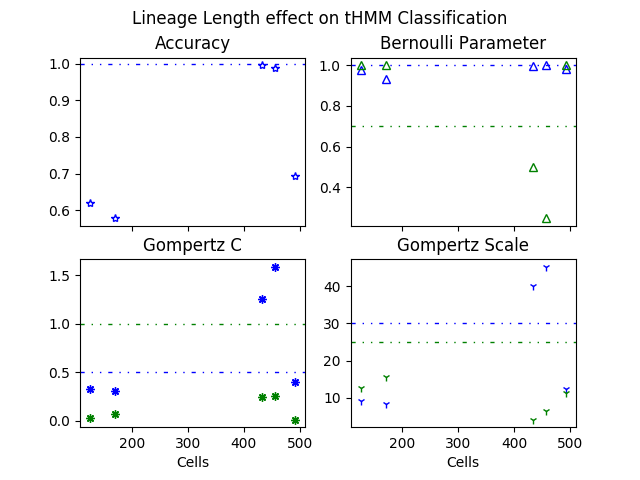
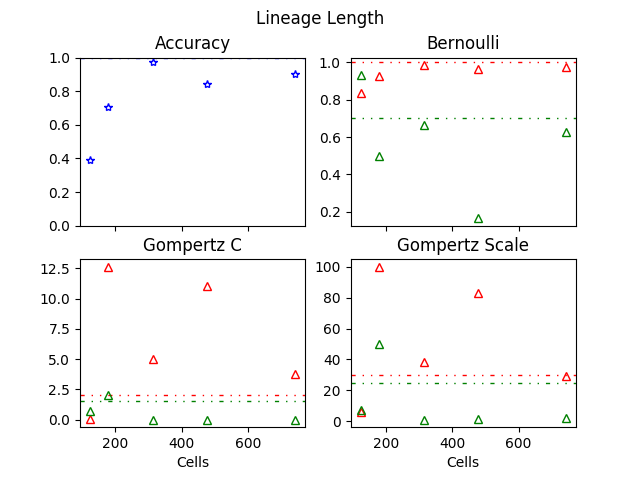
finalized figure1

diff --git a/Figure1_2Lineage.py b/Figure1_2Lineage.py
@@ -3,6 +3,7 @@ import numpy as np
 import matplotlib
 matplotlib.use('Agg')
 from matplotlib import pyplot as plt
+from matplotlib.font_manager import FontProperties
 
 
 from lineage.BaumWelch import fit
@@ -17,18 +18,18 @@ from lineage.CellNode import CellNode
 
 ################ Number of cell in a single lineage
 
-T_MAS = 200
+T_MAS = 75
 T_2 = 75
 times = range(1,2) 
 reps = 5
 
 MASinitCells = [1]
 MASlocBern = [0.99999999999]
-MAScGom = [0.5]
+MAScGom = [2]
 MASscaleGom = [30]
 initCells2 = [1]
 locBern2 = [0.7]
-cGom2 = [1]
+cGom2 = [1.5]
 scaleGom2 = [25]
 
 acc_h1 = [] #list of lists of lists
@@ -109,6 +110,7 @@ for experimentTime in times: #a pop with num number of lineages
             lineage = tHMMobj.population[lin]
             T = tHMMobj.paramlist[lin]["T"]
             E = tHMMobj.paramlist[lin]["E"]
+            pi = tHMMobj.paramlist[lin]["pi"] 
 
             
             #assign state 1 and state 2
@@ -118,8 +120,11 @@ for experimentTime in times: #a pop with num number of lineages
                     if state_j != state_k:
                         T_non_diag[state_j] = T[state_j,state_k]
             
-            state_1 = np.argmin(T_non_diag) #state_MAS
-            state_2 = np.argmax(T_non_diag)
+            #state_1 = np.argmin(T_non_diag) #state_MAS
+            #state_2 = np.argmax(T_non_diag)
+            
+            state_1 = np.argmax(pi)
+            state_2 = np.argmin(pi)
             
             
             wrong = 0
@@ -174,35 +179,43 @@ x=cell_h1
 print(max(x))
 fig, axs = plt.subplots(nrows=2, ncols=2, sharex=True)
 ax = axs[0,0]
-ax.errorbar(x, acc_h1, fmt='o', c='b',marker="*",fillstyle='none')
+ax.set_ylim(0,1)
+l1 = ax.errorbar(x, acc_h1, fmt='o', c='b',marker="*",fillstyle='none', label = 'Accuracy')
 ax.axhline(y=1, linestyle = (0, (3, 5, 1, 5, 1, 5)), linewidth=1, color='b',)
 ax.set_title('Accuracy')
 #ax.locator_params(nbins=4)
 
 ax = axs[0,1]
-ax.errorbar(x, bern_MAS_h1, fmt='o', c='b',marker="^",fillstyle='none')
-ax.errorbar(x, bern_2_h1, fmt='o', c='g',marker="^",fillstyle='none')
-ax.set_title('Bernoulli Parameter')
-ax.axhline(y= MASlocBern, linestyle = (0, (3, 5, 1, 5, 1, 5)), linewidth=1, color='b')
+l2 = ax.errorbar(x, bern_MAS_h1, fmt='o', c='r',marker="^",fillstyle='none', label = 'State 1')
+l3 = ax.errorbar(x, bern_2_h1, fmt='o', c='g',marker="^",fillstyle='none', label = 'State 2')
+ax.set_title('Bernoulli')
+ax.axhline(y= MASlocBern, linestyle = (0, (3, 5, 1, 5, 1, 5)), linewidth=1, color='r')
 ax.axhline(y=locBern2, linestyle = (0, (3, 5, 1, 5, 1, 5)), linewidth=1, color='g')
 
 ax = axs[1,0]
 ax.set_xlabel('Cells')
-ax.errorbar(x,cGom_MAS_h1, fmt='o',c='b',marker=(8,2,0))
-ax.errorbar(x,cGom_2_h1, fmt='o',c='g',marker=(8,2,0))
-ax.axhline(y=MAScGom, linestyle = (0, (3, 5, 1, 5, 1, 5)), linewidth=1, color='b')
+ax.errorbar(x,cGom_MAS_h1, fmt='o',c='r',marker="^",fillstyle='none', label = 'State 1')
+ax.errorbar(x,cGom_2_h1, fmt='o',c='g',marker="^",fillstyle='none', label = 'State 2')
+ax.axhline(y=MAScGom, linestyle = (0, (3, 5, 1, 5, 1, 5)), linewidth=1, color='r')
 ax.axhline(y=cGom2, linestyle = (0, (3, 5, 1, 5, 1, 5)), linewidth=1, color='g')
 ax.set_title('Gompertz C')
 
 
 ax = axs[1,1]
 ax.set_xlabel('Cells')
-ax.errorbar(x,scaleGom_MAS_h1, fmt='o',c='b', marker="1")
-ax.errorbar(x,scaleGom_2_h1, fmt='o',c='g', marker="1")
-ax.axhline(y=MASscaleGom, linestyle = (0, (3, 5, 1, 5, 1, 5)), linewidth=1, color='b')
+ax.errorbar(x,scaleGom_MAS_h1, fmt='o',c='r',marker="^",fillstyle='none', label = 'State 1')
+ax.errorbar(x,scaleGom_2_h1, fmt='o',c='g',marker="^",fillstyle='none', label = 'State 2')
+ax.axhline(y=MASscaleGom, linestyle = (0, (3, 5, 1, 5, 1, 5)), linewidth=1, color='r')
 ax.axhline(y=scaleGom2, linestyle = (0, (3, 5, 1, 5, 1, 5)), linewidth=1, color='g')
 ax.set_title('Gompertz Scale')
 
-fig.suptitle('Lineage Length effect on tHMM Classification')
+'''
+fontP = FontProperties()
+fontP.set_size('x-large')
+
+fig.legend((l1, l2, l3), ('Accuracy', 'State 1', 'State 2'), loc='upper right', prop=fontP, fancybox=True, shadow=True)
+'''
+
+fig.suptitle('Lineage Length')
 
 plt.savefig('TEST_lineage_length_classification.png')

diff --git a/Figure2_2Lineage.py b/Figure2_2Lineage.py
@@ -29,7 +29,7 @@ reps = 1
 MASlocBern = [0.99999999999]
 MAScGom = [0.5]
 MASscaleGom = [30]
-#initCells2 = [1]
+initCells2 = [1]
 locBern2 = [0.7]
 cGom2 = [1]
 scaleGom2 = [25]
@@ -115,6 +115,7 @@ for lineage_num in lineages: #a pop with num number of lineages
             lineage = tHMMobj.population[lin]
             T = tHMMobj.paramlist[lin]["T"]
             E = tHMMobj.paramlist[lin]["E"]
+            pi = tHMMobj.paramlist[lin]["pi"] 
 
             
             #assign state 1 and state 2
@@ -124,8 +125,11 @@ for lineage_num in lineages: #a pop with num number of lineages
                     if state_j != state_k:
                         T_non_diag[state_j] = T[state_j,state_k]
             
-            state_1 = np.argmin(T_non_diag) #state_MAS
-            state_2 = np.argmax(T_non_diag)
+            #state_1 = np.argmin(T_non_diag) #state_MAS
+            #state_2 = np.argmax(T_non_diag)
+            
+            state_1 = np.argmax(pi)
+            state_2 = np.argmax(pi)
             
             
             wrong = 0

diff --git a/lineage/Lineage_utils.py b/lineage/Lineage_utils.py
@@ -99,9 +99,9 @@ def bernoulliParameterEstimatorAnalytical(X):
     for cell in X: # go through every cell in the population
         if not cell.isUnfinished(): # if the cell has lived a meaningful life and matters
             fate_holder.append(cell.fate*1) # append 1 for dividing, and 0 for dying
-    result = 0.5 # dummy estimate
-    if len(fate_holder) != 0:
-        result = (sum(fate_holder))/ (len(fate_holder)) # add up all the 1s and divide by the total length (finding the average)
+    #result = 0.5 # dummy estimate
+    #if len(fate_holder) != 0:
+    result = (sum(fate_holder)+1.0)/ (len(fate_holder)+2.0) # add up all the 1s and divide by the total length (finding the average)
 
     return result
 

diff --git a/lineage/tHMM.py b/lineage/tHMM.py
@@ -138,7 +138,7 @@ class tHMM:
                     temp_b = sp.bernoulli.pmf(k=cell.fate, p=k_bern) # bernoulli likelihood
                     temp_g = sp.gompertz.pdf(x=cell.tau, c=k_gomp_c, scale=k_gomp_s) # gompertz likelihood
                     current_cell_idx = lineage.index(cell) # get the index of the current cell
-                    EL_array[current_cell_idx, state_k] = temp_b * temp_g
+                    EL_array[current_cell_idx, state_k] = temp_b *temp_g
 
             EL.append(EL_array) # append the EL_array for each lineage
         return EL

diff --git a/lineage/tests/test_tHMM.py b/lineage/tests/test_tHMM.py
@@ -412,7 +412,7 @@ class TestModel(unittest.TestCase):
             masterLineage = gpt(MASexperimentTime, MASinitCells, MASlocBern, MAScGom, MASscaleGom)
             masterLineage = remove_NaNs(masterLineage)
         print(len(masterLineage))
-        experimentTime2 = 75
+        experimentTime2 = 125
         initCells2 = [1]
         locBern2 = [0.7]
         cGom2 = [2]
